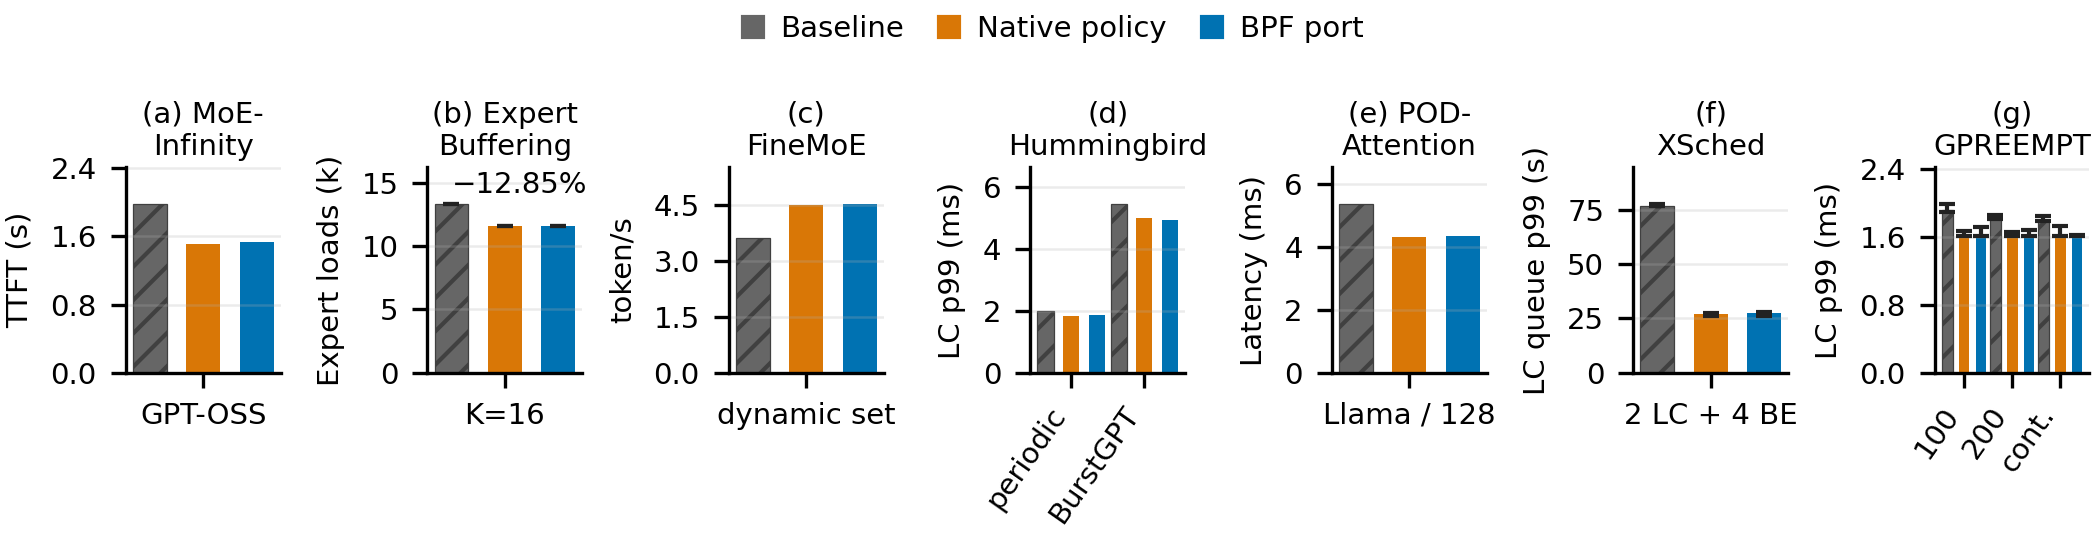
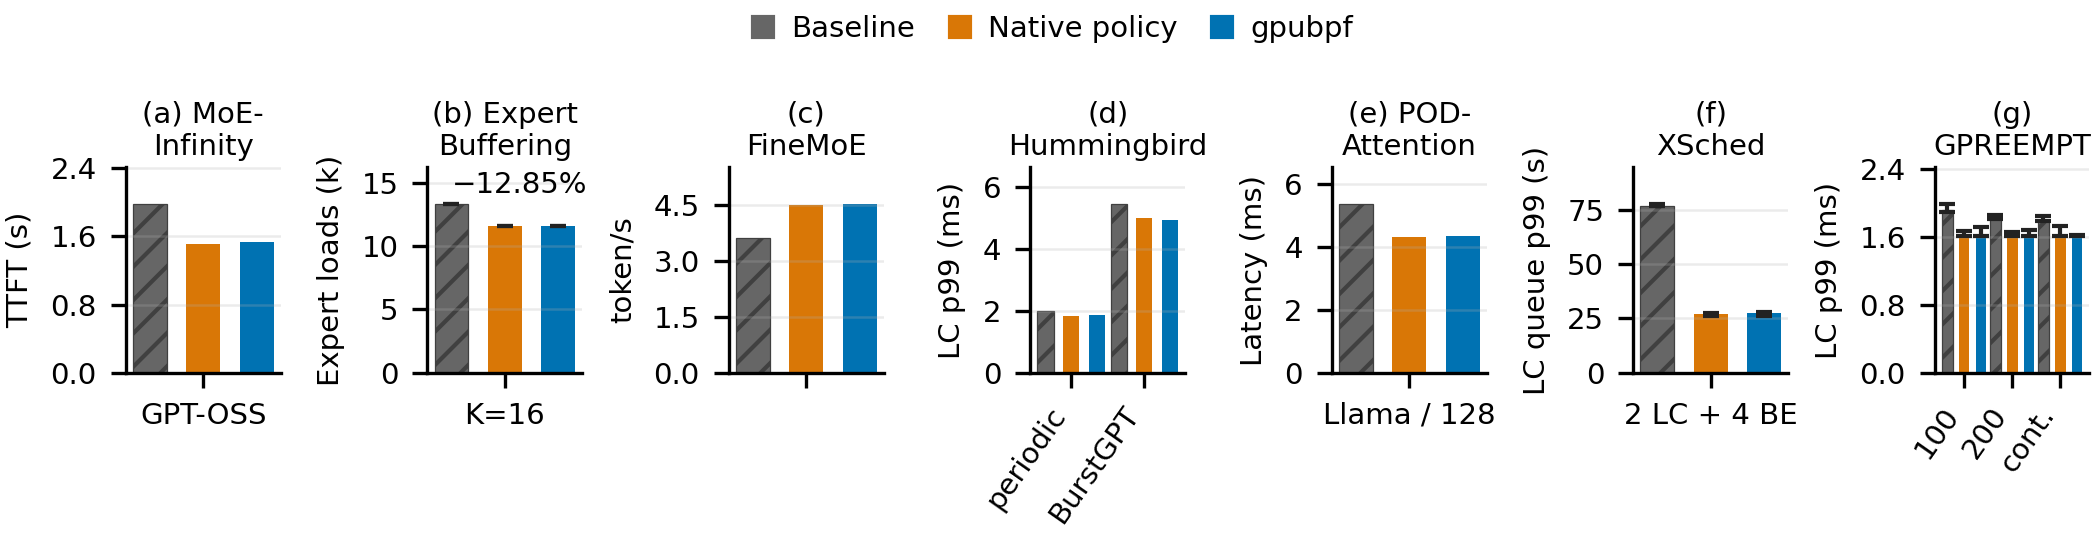
paper: use consistent policy and system names

Changed region(s): [[0.3405, 0.0296, 0.65, 0.0889], [0.3405, 0.7407, 0.4333, 0.8]]

diff --git a/tex-revision/tex/eval.tex b/tex-revision/tex/eval.tex
@@ -326,8 +326,8 @@ The tenants share an unpartitioned GPU managed by a system-wide policy.
 % 策略可表达性与匹配实现
 \label{sec:policy-mechanism}
 
-We evaluate whether \sys{} can express the policies of published state-of-the-art systems, and what the general mechanism costs when it runs the same policy as an ad-hoc implementation.
-% 我们评估 \sys{} 能否表达已发表最先进系统的策略，以及通用机制在运行与临时实现相同的策略时代价几何。
+We evaluate whether \sys{} can express the policies of published state-of-the-art systems, and what the general mechanism costs when it runs the same policy as a native implementation.
+% 我们评估 \sys{} 能否表达已发表最先进系统的策略，以及通用机制相对原生实现运行同一策略的开销。
 The ports span host-side expert caching and queue admission, driver-side timeslicing and memory migration, and device-side task selection.
 % 这些移植覆盖主机侧的专家缓存与队列准入、驱动侧的时间片与内存迁移，以及设备侧的任务选择。
 
@@ -350,45 +350,45 @@ Unless stated otherwise, we report medians with paired bootstrap intervals; POD'
 
 \paragraph{MoE-Infinity (expert offloading)}
 % MoE-Infinity（专家卸载）
-Host-JIT \sys{} programs implement MoE-Infinity's~\cite{xue2025moeinfinity} prediction matching, prefetch ranking, and eviction selection, while the shared GPT-OSS-120B executor performs expert transfers and inference.
-% 主机 JIT 的 \sys{} 程序实现 MoE-Infinity~\cite{xue2025moeinfinity} 的预测匹配、预取排序和驱逐选择，共用的 GPT-OSS-120B 执行器负责专家传输与推理。
+Host-side \sys{} programs implement MoE-Infinity's~\cite{xue2025moeinfinity} prediction matching, prefetch ranking, and eviction selection, while the shared GPT-OSS-120B executor performs expert transfers and inference.
+% 主机侧 \sys{} 程序实现 MoE-Infinity~\cite{xue2025moeinfinity} 的预测匹配、预取排序和驱逐选择，共用的 GPT-OSS-120B 执行器负责专家传输与推理。
 Across five paired runs, the native policy and \sys{} reduce first-visible-text latency by 22.1\% and 22.5\%, respectively, relative to prediction-disabled expert caching.
 % 五次配对试验中，相对关闭预测的专家缓存，原生策略与 \sys{} 分别将首个可见文本延迟降低 22.1\% 和 22.5\%。
 
 \paragraph{XSched (preemptive scheduling)}
 % XSched（抢占式调度）
-We port XSched's~\cite{shen2025xsched} inter-kernel preemption: a host-JIT \sys{} program selects the highest-priority task, and the original executor performs suspend/resume.
-% 我们移植 XSched~\cite{shen2025xsched} 的内核间抢占：主机 JIT 的 \sys{} 程序选择最高优先级任务，原始执行器执行挂起/恢复。
+We port XSched's~\cite{shen2025xsched} inter-kernel preemption: a host-side \sys{} program selects the highest-priority task, and the original executor performs suspend/resume.
+% 我们移植 XSched~\cite{shen2025xsched} 的内核间抢占：主机侧 \sys{} 程序选择最高优先级任务，原始执行器执行挂起/恢复。
 With two latency-critical (LC) and four best-effort (BE) processes, LC submission-to-first-CTA p99 falls from 76.9~s under native CUDA to 27.0~s with XSched and 27.3~s with \sys{} (\Cref{fig:matched-ports}(f)).
 % 在两个延迟关键（LC）和四个尽力型（BE）进程下，LC 提交到首个 CTA 的 p99 从原生 CUDA 的 76.9 秒降至 XSched 的 27.0 秒和 \sys{} 的 27.3 秒（\Cref{fig:matched-ports}(f)）。
 
 \paragraph{GPREEMPT (priority timeslicing)}
 % GPREEMPT（优先级时间片）
-For GPREEMPT~\cite{fan2025gpreempt}, host-JIT \sys{} programs issue blocking and release decisions, and kernel-BPF programs assign priority-based timeslices; the original executor and GPU driver carry out these decisions.
-% 对 GPREEMPT~\cite{fan2025gpreempt}，主机 JIT 的 \sys{} 程序做出阻塞与释放决策，内核 BPF 程序按优先级分配时间片，由原始执行器和 GPU 驱动执行。
-Under continuous background load, this policy reduces LC response p99 from 1.796~ms under default scheduling to 1.615~ms with the original C policy and 1.610~ms with \sys{} (\Cref{fig:matched-ports}(g)).
-% 在连续后台负载下，GPREEMPT~\cite{fan2025gpreempt} 的优先级时间片将 LC 响应 p99 从默认调度的 1.796 毫秒降至原始 C 策略的 1.615 毫秒和 \sys{} 的 1.610 毫秒（\Cref{fig:matched-ports}(g)）。
+For GPREEMPT~\cite{fan2025gpreempt}, host-side \sys{} programs issue blocking and release decisions, and driver-side \sys{} programs assign priority-based timeslices; the original executor and GPU driver carry out these decisions.
+% 对 GPREEMPT~\cite{fan2025gpreempt}，主机侧 \sys{} 程序做出阻塞与释放决策，驱动侧 \sys{} 程序按优先级分配时间片，由原始执行器和 GPU 驱动执行。
+Under continuous background load, this policy reduces LC response p99 from 1.796~ms under default scheduling to 1.615~ms with the native policy and 1.610~ms with \sys{} (\Cref{fig:matched-ports}(g)).
+% 在连续后台负载下，GPREEMPT~\cite{fan2025gpreempt} 的优先级时间片将 LC 响应 p99 从默认调度的 1.796 毫秒降至原生策略的 1.615 毫秒和 \sys{} 的 1.610 毫秒（\Cref{fig:matched-ports}(g)）。
 
 \paragraph{Expert Buffering (expert residency)}
 % Expert Buffering（专家驻留）
-A host-JIT \sys{} program implements Expert Buffering's~\cite{huang2023towards} inactive-first expert admission and eviction decisions, which the shared cache executor applies.
-% 主机 JIT 的 \sys{} 程序实现 Expert Buffering~\cite{huang2023towards} 非活跃优先的专家准入与驱逐决策，由共用的缓存执行器执行。
+A host-side \sys{} program implements Expert Buffering's~\cite{huang2023towards} inactive-first expert admission and eviction decisions, which the shared cache executor applies.
+% 主机侧 \sys{} 程序实现 Expert Buffering~\cite{huang2023towards} 非活跃优先的专家准入与驱逐决策，由共用的缓存执行器执行。
 At the same cache capacity, both the native policy and \sys{} reduce whole-expert loads by 12.85\% relative to fixed-$K$ FIFO (\Cref{fig:matched-ports}(b)).
 % 在相同缓存容量下，原生策略与 gpubpf 均相对固定 K 的 FIFO 将完整专家加载次数减少 12.85\%（\Cref{fig:matched-ports}(b)）。
 
 \paragraph{FineMoE (dynamic expert sets)}
 % FineMoE（动态专家集）
-A host-JIT \sys{} program implements FineMoE's~\cite{yu2026finemoe} dynamic-set rule to select experts for speculative prefetch, while the shared inference executor performs their transfers and computation.
-% 主机 JIT 的 \sys{} 程序实现 FineMoE~\cite{yu2026finemoe} 的动态集合规则，选择推测预取的专家，由共用的推理执行器完成传输与计算。
+A host-side \sys{} program implements FineMoE's~\cite{yu2026finemoe} dynamic-set rule to select experts for speculative prefetch, while the shared inference executor performs their transfers and computation.
+% 主机侧 \sys{} 程序实现 FineMoE~\cite{yu2026finemoe} 的动态集合规则，选择推测预取的专家，由共用的推理执行器完成传输与计算。
 \sys{} improves throughput by 24.6\% over an all-positive prefetch policy that fetches every positive prediction; native and \sys{} throughput differ by 0.21\% in paired runs (95\% CI $[-0.17\%,+0.52\%]$).
 % 对 FineMoE~\cite{yu2026finemoe} 的动态专家集选择，相比预取所有正预测的全正例策略，\sys{} 将吞吐提高 24.6\%；原生与 \sys{} 在配对运行中的吞吐差异为 0.21\%（95\% CI $[-0.17\%,+0.52\%]$）。
 
 \paragraph{Hummingbird (idle admission)}
 % Hummingbird（空闲准入）
-A host-JIT \sys{} program implements Hummingbird's~\cite{hu2026hummingbird} idle-admission rule by deciding when background work may enter a foreground idle interval, while the shared DNN executor submits the admitted work.
-% 主机 JIT 的 \sys{} 程序实现 Hummingbird~\cite{hu2026hummingbird} 的空闲准入规则，决定后台工作何时可进入前台空闲区间，由共用的 DNN 执行器提交获准的工作。
-Across periodic and BurstGPT arrivals, \sys{} lowers LC response p99 by 5.9--9.1\% relative to default scheduling, compared with 7.5--8.2\% for C.
-% 在周期性和 BurstGPT 到达模式下，相对默认调度，\sys{} 将 LC 响应 p99 降低 5.9--9.1\%，C 实现降低 7.5--8.2\%。
+A host-side \sys{} program implements Hummingbird's~\cite{hu2026hummingbird} idle-admission rule by deciding when background work may enter a foreground idle interval, while the shared DNN executor submits the admitted work.
+% 主机侧 \sys{} 程序实现 Hummingbird~\cite{hu2026hummingbird} 的空闲准入规则，决定后台工作何时可进入前台空闲区间，由共用的 DNN 执行器提交获准的工作。
+Across periodic and BurstGPT arrivals, \sys{} lowers LC response p99 by 5.9--9.1\% relative to default scheduling, compared with 7.5--8.2\% for the native policy.
+% 在周期性和 BurstGPT 到达模式下，相对默认调度，\sys{} 将 LC 响应 p99 降低 5.9--9.1\%，原生策略降低 7.5--8.2\%。
 
 \paragraph{POD-Attention (device-side selection)}
 % POD-Attention（设备端选择）
@@ -396,8 +396,8 @@ A device-side \sys{} program implements POD-Attention's~\cite{kamath2025pod} pro
 % 设备端 \sys{} 程序实现 POD-Attention~\cite{kamath2025pod} 按比例为每个 SM 选择 prefill 或 decode 工作的策略，由融合注意力内核执行。
 We evaluate ten shapes over five blocks against non-fused FlashAttention and native POD implementations.
 % 我们在十种形状和五组实验中与未融合的 FlashAttention 及原生 POD 实现比较。
-For Llama decode batch 128, operator latency falls from 5.360~ms with two-stream FlashAttention to 4.322~ms with the CUDA selector and 4.344~ms with \sys{}.
-% 在 Llama 解码批量 128 下，算子延迟从双流 FlashAttention 的 5.360 毫秒降至 CUDA 选择器的 4.322 毫秒和 \sys{} 的 4.344 毫秒。
+For Llama decode batch 128, operator latency falls from 5.360~ms with two-stream FlashAttention to 4.322~ms with the native policy and 4.344~ms with \sys{}.
+% 在 Llama 解码批量 128 下，算子延迟从双流 FlashAttention 的 5.360 毫秒降至原生策略的 4.322 毫秒和 \sys{} 的 4.344 毫秒。
 
 \paragraph{Mechanism cost}
 % 机制代价

diff --git a/tex-revision/img/results-raw/revision/plot_port_panels.py b/tex-revision/img/results-raw/revision/plot_port_panels.py
@@ -17,7 +17,7 @@ import statistics
 from pathlib import Path
 
 COLORS = {"baseline": "#666666", "original": "#D97706", "port": "#0072B2"}
-LEGEND = (("baseline", "Baseline"), ("original", "Native policy"), ("port", "BPF port"))
+LEGEND = (("baseline", "Baseline"), ("original", "Native policy"), ("port", "gpubpf"))
 STYLE = {"font.family": "DejaVu Sans", "font.size": 7,
          "axes.labelsize": 7, "xtick.labelsize": 7, "ytick.labelsize": 7,
          "legend.fontsize": 7, "axes.spines.top": False,
@@ -85,7 +85,8 @@ def _draw(panels: list[dict], paths: list[Path]) -> None:
                 axis.text(.1, top * 1.035, f"−{reduction:.2f}%",
                           ha="center", va="bottom", fontsize=7)
             axis.set_xticks(range(len(panel["groups"])),
-                            [g["label"] for g in panel["groups"]])
+                            [g["label"] if panel["id"] != "finemoe" else ""
+                             for g in panel["groups"]])
             if panel["id"] in ("hummingbird", "gpreempt"):
                 axis.tick_params(axis="x", labelrotation=55)
                 for label in axis.get_xticklabels():
